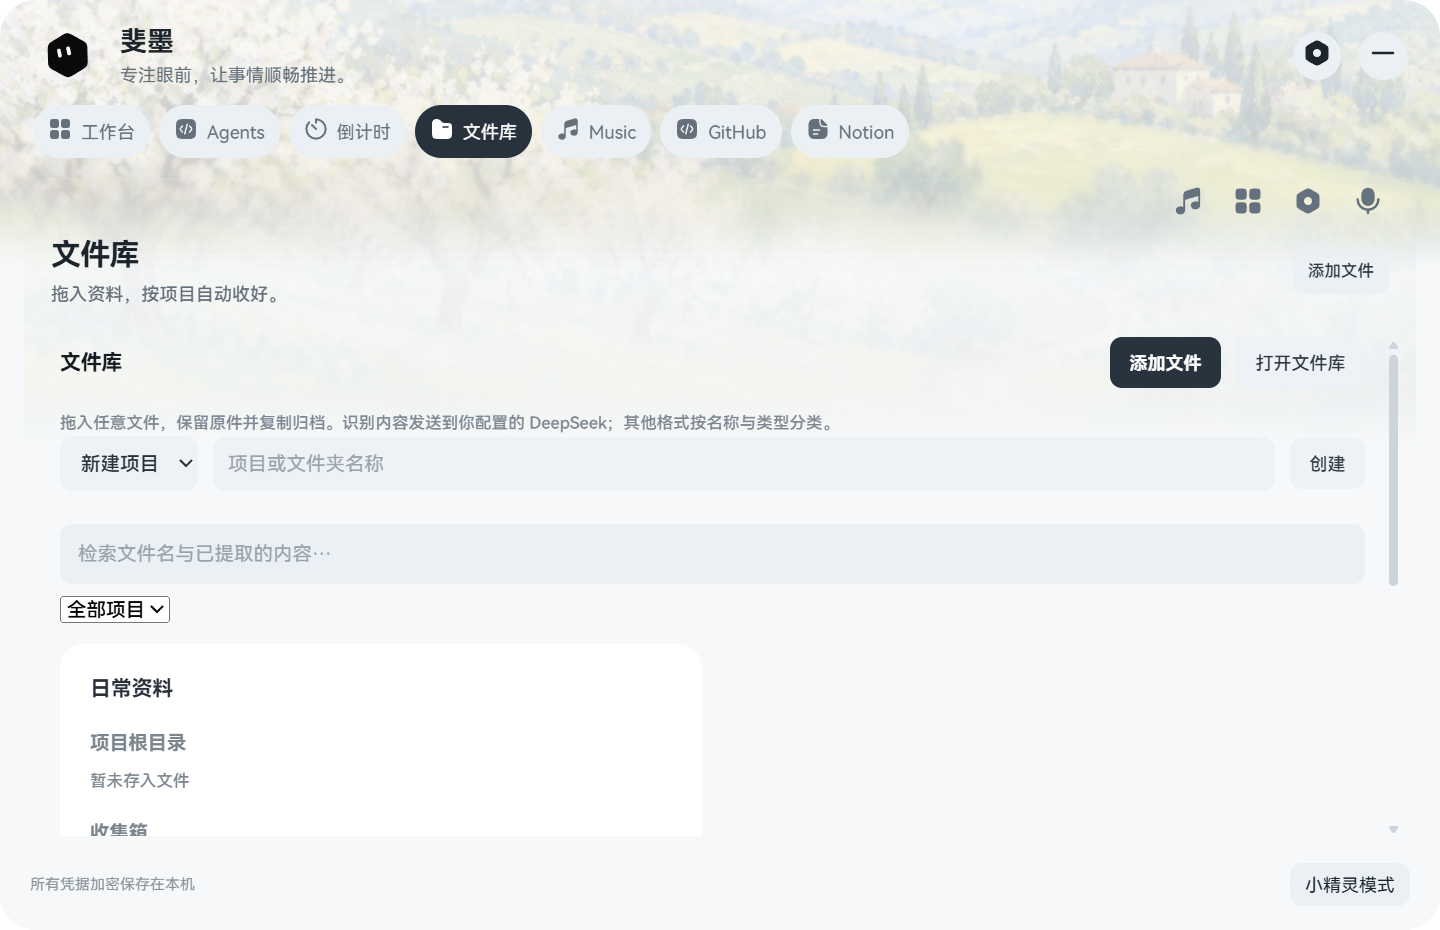
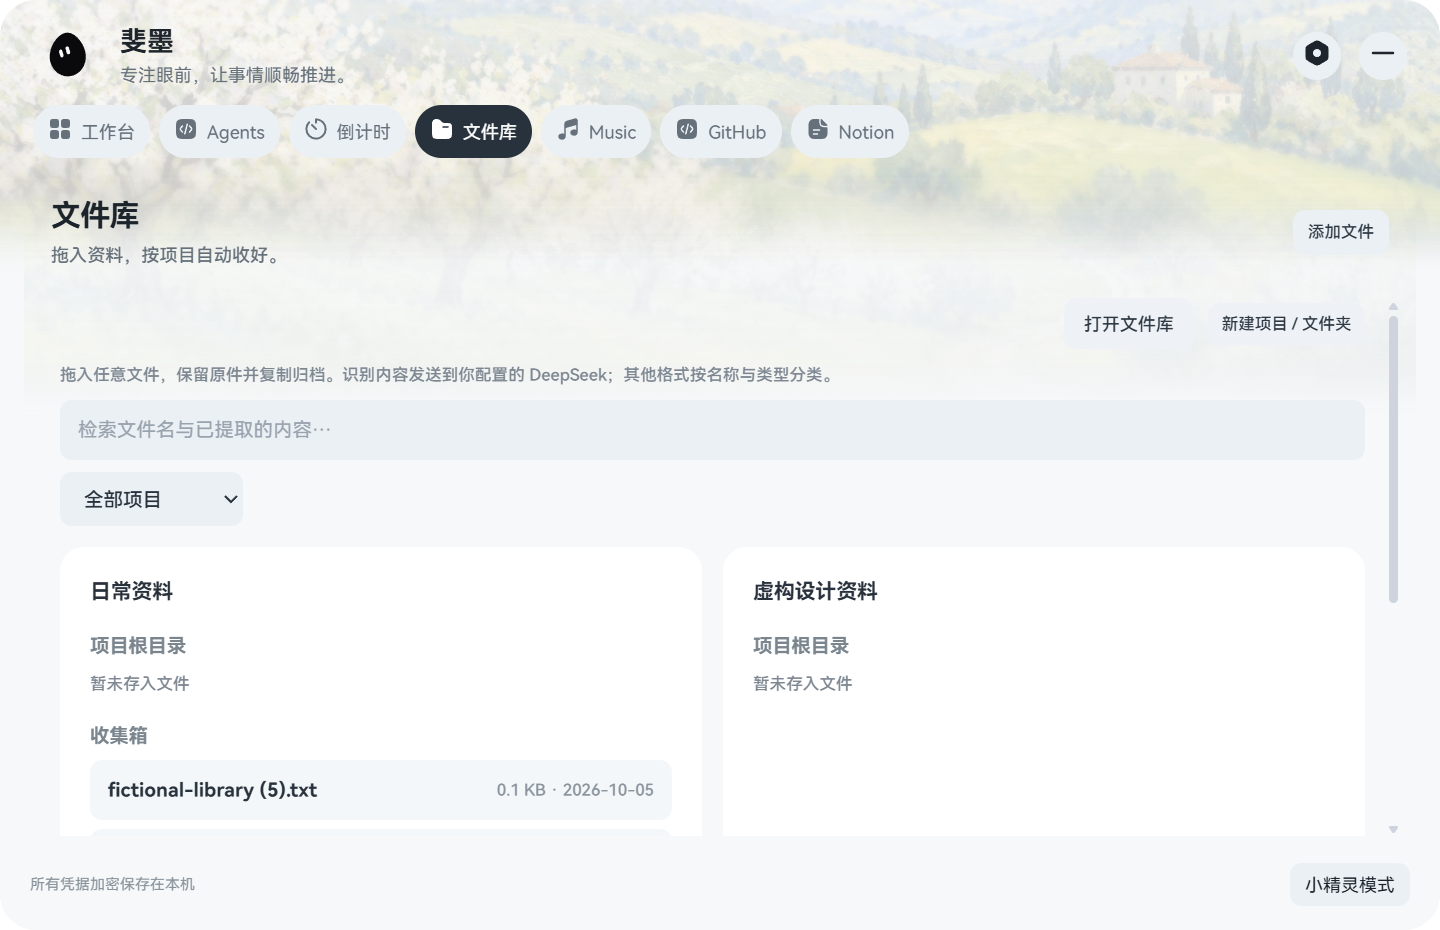
fix: compact file categories and restore private-only learning navigation

diff --git a/renderer/shared/file-library-ui.js b/renderer/shared/file-library-ui.js
@@ -11,8 +11,8 @@
   }
   function mount(root,data,api){root.replaceChildren();const head=el('div',null,'file-heading'),title=el('h3','文件库'),add=el('button','添加文件','btn primary'),open=el('button','打开文件库','btn');add.onclick=()=>run(()=>api.fileSelect());open.onclick=()=>run(()=>api.fileRoot());head.append(title,add,open);root.append(head,el('p','拖入任意文件，保留原件并复制归档。识别内容发送到你配置的 DeepSeek；其他格式按名称与类型分类。','hint'));
     for(const r of data.pending){const card=el('article',null,'card');if(r.phase==='等待选择')choose(card,r,data,api);else card.append(el('strong',r.name),el('p','正在识别文件内容…','hint'));root.append(card);}
-    const toolbar=el('div',null,'file-heading'),name=el('input'),project=el('select'),create=el('button','创建','btn');name.placeholder='项目或文件夹名称';name.maxLength=100;project.setAttribute('aria-label','创建位置');project.append(new Option('新建项目',''));for(const p of data.projects)project.append(new Option(p.name,p.id));create.onclick=()=>run(async()=>{await api.fileCreate({projectId:project.value,name:name.value});name.value='';});toolbar.append(project,name,create);root.append(toolbar);
-    const search=el('input');search.placeholder='检索文件名与已提取的内容…';search.className='file-search';search.setAttribute('aria-label','检索文件');root.append(search);const filter=el('select');filter.setAttribute('aria-label','筛选项目');filter.append(new Option('全部项目',''));for(const p of data.projects)filter.append(new Option(p.name,p.id));root.append(filter);const list=el('div',null,'file-list');root.append(list);let matched=null,searchTimer;search.oninput=()=>{clearTimeout(searchTimer);searchTimer=setTimeout(async()=>{matched=search.value?new Set((await api.fileSearch(search.value)).map(f=>f.id)):null;render();},120);};const render=()=>{list.replaceChildren();for(const p of data.projects.filter(p=>!filter.value||p.id===filter.value)){const section=el('article',null,'card');section.append(el('h3',p.name));for(const folder of [null,...p.folders]){const files=data.files.filter(f=>f.projectId===p.id&&(!matched||matched.has(f.id))&&(f.folderId||null)===(folder?.id||null));const label=el('h4',folder?.name||'项目根目录');section.append(label);if(!files.length)section.append(el('p','暂未存入文件','hint'));for(const f of files){const b=el('button',null,'file-row');b.append(el('strong',f.name),el('small',`${(f.size/1024).toFixed(1)} KB · ${f.createdAt.slice(0,10)}`));b.draggable=true;b.title='点击定位文件；拖动可复制到其他程序';b.ondragstart=e=>{e.preventDefault();api.fileDrag(f.id);};b.onclick=()=>run(()=>api.fileOpen(f.id));section.append(b);}}list.append(section);}if(!data.projects.length)list.append(el('div','还没有项目。拖入文件，或先创建一个项目。','empty'));};filter.onchange=render;render();
+    const newProject=el('button','新建项目 / 文件夹','btn small');head.append(newProject);if(root.id==='view-files'){title.remove();add.remove();}newProject.onclick=()=>{const dialog=el('dialog',null,'file-create-dialog'),name=el('input'),project=el('select'),create=el('button','创建','btn primary'),cancel=el('button','取消','btn');name.placeholder='项目或文件夹名称';name.maxLength=100;name.setAttribute('aria-label','项目或文件夹名称');project.setAttribute('aria-label','创建位置');project.append(new Option('新建项目',''));for(const p of data.projects)project.append(new Option('在 '+p.name+' 内建文件夹',p.id));create.onclick=()=>run(async()=>{await api.fileCreate({projectId:project.value,name:name.value});dialog.close();});cancel.onclick=()=>dialog.close();const actions=el('div',null,'actionbar');actions.append(cancel,create);dialog.append(el('h3','新建分类'),project,name,actions);dialog.onclose=()=>dialog.remove();document.body.append(dialog);dialog.showModal();name.focus();};
+    const search=el('input');search.placeholder='检索文件名与已提取的内容…';search.className='file-search';search.setAttribute('aria-label','检索文件');root.append(search);const filter=el('select');filter.className='file-filter';filter.setAttribute('aria-label','筛选项目');filter.append(new Option('全部项目',''));for(const p of data.projects)filter.append(new Option(p.name,p.id));root.append(filter);const list=el('div',null,'file-list');root.append(list);let matched=null,searchTimer;search.oninput=()=>{clearTimeout(searchTimer);searchTimer=setTimeout(async()=>{matched=search.value?new Set((await api.fileSearch(search.value)).map(f=>f.id)):null;render();},120);};const render=()=>{list.replaceChildren();for(const p of data.projects.filter(p=>!filter.value||p.id===filter.value)){const section=el('article',null,'card');section.append(el('h3',p.name));for(const folder of [null,...p.folders]){const files=data.files.filter(f=>f.projectId===p.id&&(!matched||matched.has(f.id))&&(f.folderId||null)===(folder?.id||null));const label=el('h4',folder?.name||'项目根目录');section.append(label);if(!files.length)section.append(el('p','暂未存入文件','hint'));for(const f of files){const b=el('button',null,'file-row');b.append(el('strong',f.name),el('small',`${(f.size/1024).toFixed(1)} KB · ${f.createdAt.slice(0,10)}`));b.draggable=true;b.title='点击定位文件；拖动可复制到其他程序';b.ondragstart=e=>{e.preventDefault();api.fileDrag(f.id);};b.onclick=()=>run(()=>api.fileOpen(f.id));section.append(b);}}list.append(section);}if(!data.projects.length)list.append(el('div','还没有项目。拖入文件，或先创建一个项目。','empty'));};filter.onchange=render;render();
   }
   window.FileLibraryUI={mount,choose};
 })();

diff --git a/renderer/island/island.js b/renderer/island/island.js
@@ -1,7 +1,7 @@
 'use strict';
 (() => {
   const {esc,icon,safe,requestCard,sessionCard,serviceCard,musicCard}=IslandWidgets,$=s=>document.querySelector(s);
-  let state=null,selected='workbench',workbenchTab='voice',expandedKnown=false,expanded=false,collapseTimer=null,signature='',requestIndex=0,petId='',pets=[],busy=false,embeddedFocused=false,reply='',assistant=null,attachment=null,frame=null;
+  let state=null,selected='workbench',workbenchTab='voice',requestedTab=null,expandedKnown=false,expanded=false,collapseTimer=null,signature='',requestIndex=0,petId='',pets=[],busy=false,embeddedFocused=false,reply='',assistant=null,attachment=null,frame=null;
   function expand(on){expandedKnown=true;expanded=!!on;$('#island').classList.toggle('collapsed',!expanded);if(on){$('#quick-pills').hidden=true;renderPanel();}publishHit();}
   $('#compact').onkeydown=null;$('#compact').onclick=null;$('#collapse').onclick=()=>safe(()=>api.islandExpand(false));
   $('#compact').onmouseenter=()=>clearTimeout(collapseTimer);
@@ -61,8 +61,8 @@
   document.querySelectorAll('[data-music]').forEach(b=>b.onclick=e=>{e.stopPropagation();safe(()=>api.musicCommand(b.dataset.music));});
   const lyricTick=()=>{if(!state?.music.playing)return;const m=state.music,secs=m.position+(Date.now()-(m.sampledAt||Date.now()))/1000;let text=m.title||'音乐播放中';for(const l of m.lyrics||[])if(l.time<=secs)text=l.text;const root=$('#compact-lyric');if(root.dataset.text!==text){root.dataset.text=text;const span=document.createElement('span');span.textContent=text;root.replaceChildren(span);requestAnimationFrame(()=>{const overflow=span.scrollWidth-root.clientWidth;if(overflow>0&&!matchMedia('(prefers-reduced-motion: reduce)').matches)span.animate([{transform:'translateX(0)',offset:0},{transform:'translateX(0)',offset:.12},{transform:'translateX(-'+(overflow+6)+'px)',offset:.8},{transform:'translateX(-'+(overflow+6)+'px)',offset:1}],{duration:Math.max(6000,overflow*70),iterations:Infinity,direction:'alternate',easing:'linear'});});}};setInterval(lyricTick,300);
   window.addEventListener('message',e=>{if(e.source===$('#full-workbench').contentWindow&&e.data?.type==='feimo:workbench-busy')embeddedFocused=!!e.data.busy;});
-  function navigate(tab){const route=String(tab).split(':')[0];selected=['agents','focus','files'].includes(route)?route:'workbench';workbenchTab=tab;signature='';$('#full-workbench').dataset.route='';renderPanel();}
-  $('#full-workbench').onload=()=>navigate(state?.module||'voice');api.onIslandNavigate(navigate);window.FeimoNavigate=navigate;api.onIslandIdle(idle=>$('#island').classList.toggle('idle-dot',idle));
+  function navigate(tab){requestedTab=tab;const route=String(tab).split(':')[0];selected=['agents','focus','files'].includes(route)?route:'workbench';workbenchTab=tab;signature='';$('#full-workbench').dataset.route='';renderPanel();}
+  $('#full-workbench').onload=()=>navigate(requestedTab||state?.module||'voice');api.onIslandNavigate(navigate);window.FeimoNavigate=navigate;api.onIslandIdle(idle=>$('#island').classList.toggle('idle-dot',idle));
   function publishHit(){const rects=[...document.querySelectorAll('#island,#quick-pills:not([hidden]),dialog[open]')].map(el=>{const r=el.getBoundingClientRect();return {x:r.x,y:r.y,width:r.width,height:r.height};});api.islandHit?.(rects);}
   const hitObserver=new ResizeObserver(publishHit);hitObserver.observe($('#island'));document.addEventListener('animationstart',()=>{let end=performance.now()+450;const tick=()=>{publishHit();if(performance.now()<end)requestAnimationFrame(tick);};requestAnimationFrame(tick);});
   api.onIslandChanged(update);api.onIslandExpanded(expand);api.onFocusTick(()=>safe(async()=>update(await api.islandState())));

diff --git a/renderer/island/compact-tools.js b/renderer/island/compact-tools.js
@@ -4,7 +4,6 @@
  const dock=$('#quick-pills'),pill=$('#compact'),title=pill.querySelector('.compact-copy strong'),status=$('#compact-status');let state,hideTimer,cardType='',hover=false;
  const controls=document.createElement('span');controls.className='compact-controls';pill.insertBefore(controls,$('#compact-open'));
  const quick=[['CalendarDays','日程','schedule'],['Timer','倒计时','focus'],['Music','白噪音','noise'],['ClipboardText','剪贴板','clipboard'],['NoteText','速记','notes'],['Palette','配色','palette'],['Broom','清洗文字','clean'],['Image','截图识字','ocr'],['ChartBar','Codex额度','quota'],['Folder','存入文件','files']];
- if(api.studyPrompt)quick.push(['DocumentText','知识卡片','knowledge'],['CheckCircle','学习统计','studyStats']);
  const row=document.createElement('div');row.className='quick-pill-row';const card=document.createElement('section');card.className='quick-card';card.hidden=true;dock.append(row,card);
  for(const [glyph,name,type]of quick){const b=document.createElement('button');b.className='quick-pill';b.innerHTML=icon(glyph,16)+' '+esc(name);b.onclick=()=>safe(()=>open(type));row.append(b);}
  row.onwheel=e=>{e.preventDefault();row.scrollBy({left:e.deltaY||e.deltaX,behavior:'smooth'});};
@@ -19,7 +18,6 @@
  async function open(type){cardType=type;await api.islandReveal();
   if(type==='clean'||type==='ocr'){const r=head(type==='clean'?'正在清洗文字…':'正在提取图片文字…');await api.clipboardRunQuick(type==='clean'?'text':'image');r.textContent='已开始处理，完成后自动复制。';return;}
   if(type==='files'){await api.fileSelect();return;}
-  if(type==='knowledge'||type==='studyStats'){await api.studyPrompt(type==='knowledge'?'knowledge':'stats');return;}
   const root=head(({focus:'专注一会儿',noise:'白噪音',schedule:'新建日程',clipboard:'剪贴板',notes:'记下一个想法',palette:'精选配色',quota:'Codex 额度'})[type]);
   if(type==='focus'){const f=await api.focusState();root.innerHTML=`<label>时长（分钟）<input type="number" min="1" max="720" value="25" aria-label="快捷计时分钟"></label><label>任务<select aria-label="快捷计时任务">${f.labels.map(l=>`<option value="${esc(l.id)}">${esc(l.name)}</option>`).join('')}</select></label><label>方式<select aria-label="快捷计时方式"><option value="pomodoro">番茄钟</option><option value="countdown">倒计时</option></select></label>`;action(root,'开始计时',async()=>{await api.focusStart({minutes:+root.querySelector('input').value,labelId:root.querySelectorAll('select')[0].value,mode:root.querySelectorAll('select')[1].value});close();},true);}
   if(type==='schedule'){root.innerHTML='<input aria-label="日程标题" placeholder="要做什么？" maxlength="200"><input aria-label="日程时间" type="datetime-local">';action(root,'保存日程',async()=>{const [text,date]=root.querySelectorAll('input');if(!text.value.trim()||!date.value)throw Error('请填写标题和时间');await api.calendarAdd({title:text.value.trim(),startsAtUtc:new Date(date.value).toISOString(),reminderOffsets:[15]});root.textContent='日程已经记好啦。';},true);}

diff --git a/renderer/shared/island-widgets.css b/renderer/shared/island-widgets.css
@@ -3,3 +3,5 @@
 .archive-chooser{display:grid;gap:10px}.archive-chooser h3{margin:0;font-size:16px}.archive-chooser input,.archive-chooser select,.file-heading input,.file-heading select,.file-heading+select{min-width:0;max-width:100%;border:0;border-radius:8px;background:#edf2f5;color:#26323d;padding:10px;font:inherit}.archive-name{font-weight:600;overflow-wrap:anywhere;margin:0}.file-heading{display:flex;align-items:center;gap:10px;flex-wrap:wrap;margin-bottom:14px}.file-heading h3{margin:0;flex:1}.file-heading input{flex:1}.file-list{display:grid;gap:14px;margin-top:14px}.file-list h4{font-size:13px;color:#78858f;margin:18px 0 8px}.file-row{width:100%;display:flex;gap:12px;align-items:center;justify-content:space-between;text-align:left;border:0;border-radius:8px;background:#f4f7f9;padding:12px;margin:6px 0;color:#26323d}.file-row strong{overflow-wrap:anywhere}.file-row small{color:#88949e;flex-shrink:0}.file-list .card{padding:20px;border-radius:16px;background:white}.archive-chooser .hint{margin:0}
 
 .file-search{width:100%;padding:12px;border:0;border-radius:8px;background:#eaf0f4;color:#26323d;font:inherit;margin:8px 0}.file-mention-picker{position:fixed;max-height:230px;overflow:auto;padding:8px;background:#fff;border-radius:16px;z-index:9999;box-shadow:none;border:1px solid #edf1f4}.file-mention-picker button{width:100%;border:0;border-radius:8px;background:white;text-align:left;padding:9px;color:#26323d}.file-mention-picker button.active{background:#eaf0f4}.file-mention-picker strong,.file-mention-picker small{display:block;overflow:hidden;text-overflow:ellipsis;white-space:nowrap}.file-mention-picker small{color:#87939d;font-size:11px;margin-top:4px}
+
+.file-filter{border:0;border-radius:8px;background:#eaf0f4;color:#26323d;font:inherit;padding:9px 12px;min-height:36px;max-width:220px;cursor:pointer}.file-create-dialog{border:0;border-radius:16px;background:white;color:#26323d;box-shadow:none;padding:24px;width:min(360px,calc(100vw - 40px))}.file-create-dialog::backdrop{background:#26323d26}.file-create-dialog h3{margin-bottom:16px}.file-create-dialog input,.file-create-dialog select{width:100%;border:0;border-radius:8px;background:#eaf0f4;color:#26323d;padding:12px;font:inherit;margin-bottom:12px}.file-create-dialog .actionbar{display:flex;gap:8px;justify-content:flex-end}

diff --git a/lib/island-host.js b/lib/island-host.js
@@ -31,7 +31,7 @@ class IslandHost{
     this.win=new BrowserWindow({width:248,height:58,show:false,frame:false,transparent:true,backgroundColor:'#00000000',hasShadow:false,skipTaskbar:true,resizable:false,focusable:true,alwaysOnTop:true,webPreferences:{preload:path.join(__dirname,'..','preload','workbar-preload.js'),contextIsolation:true,nodeIntegration:false,sandbox:false,backgroundThrottling:false}});
     this.win.setAlwaysOnTop(true,'screen-saver');this.win.setIgnoreMouseEvents(true,{forward:true});this.win.webContents.setWindowOpenHandler(()=>({action:'deny'}));this.win.webContents.on('will-navigate',e=>e.preventDefault());
     const file=path.join(__dirname,'..','renderer','island','island.html');
-    watchWindow(this.win,{file,onReady:()=>{this.applyMode();this.changed();},quitting:()=>this.quitting});
+    watchWindow(this.win,{file,onReady:()=>{this.applyMode();this.win.webContents.send('island:navigate',this.module||'voice');this.changed();},quitting:()=>this.quitting});
     this.win.on('closed',()=>{this.win=null;});this.position();void this.win.loadFile(file);
   }
   expand(on){const previous=this.expanded;this.expanded=!!on;if(!alive(this.win))this.create();this.win.webContents.send('island:expanded',this.expanded);this.idle=false;this.revealUntil=Date.now()+2200;this.position(true);this.changed();if(previous!==this.expanded)this.onUIChange();if(!on)this.win.blur();}

diff --git a/renderer/workbar/workbar.css b/renderer/workbar/workbar.css
@@ -657,3 +657,5 @@ body.embedded #brand,body.embedded #workspace-header>.feimo-header-art{display:n
 
 /* Direct toolbox routes and a single module level in top mode. */
 #tabs{overflow-x:auto;scrollbar-width:none}#tabs .tab{flex:1 0 68px;white-space:nowrap}body[data-tool-section]:not([data-tool-section=""]) #view-tools>.tool-tabs{display:none}body.embedded #tabs [data-tab="agents"],body.embedded #tabs [data-tab="focus"],body.embedded #tabs [data-tab="files"]{display:none}body.embedded.primary-module #tabs{display:none}body.embedded #workspace-header{--feimo-header-bleed:88px}body.embedded #workspace-header>.feimo-header-art{display:block;opacity:.22}body.embedded #workspace-header>.feimo-header-art::before{background-position:center 66%;opacity:.25}body.embedded #panel{background:transparent}body.embedded #content{position:relative;z-index:1}body.embedded #page-header{padding-top:8px;padding-bottom:20px}
+
+body.embedded #titlebar{display:none}body.embedded #tabs{margin-top:4px}body.embedded.primary-module #page-header{padding-top:12px}body.embedded #view-files>.file-heading{justify-content:flex-end;margin-bottom:8px}

diff --git a/RELEASE_NOTES.md b/RELEASE_NOTES.md
@@ -1,5 +1,12 @@
 # Release notes
 
+## 1.6.1
+
+- 文件库新建分类改为小按钮与按需弹窗，统一项目筛选控件；减少重复标题与添加文件入口。
+- 顶部内部模块移除重复快捷图标，保留直接 Dock 与顶部设置。私人版学习空间加入一级 Dock；公开版不含该入口和接口。
+- 完成打包后的完整横向页面、原生会话批准、PDF 内容提取与归档验证。
+
+
 ## 1.6.0
 
 - 修复历史日志同步扫描阻塞启动与托盘响应；加入渲染器恢复、位置校正和“重新显示 / 恢复助手”。
